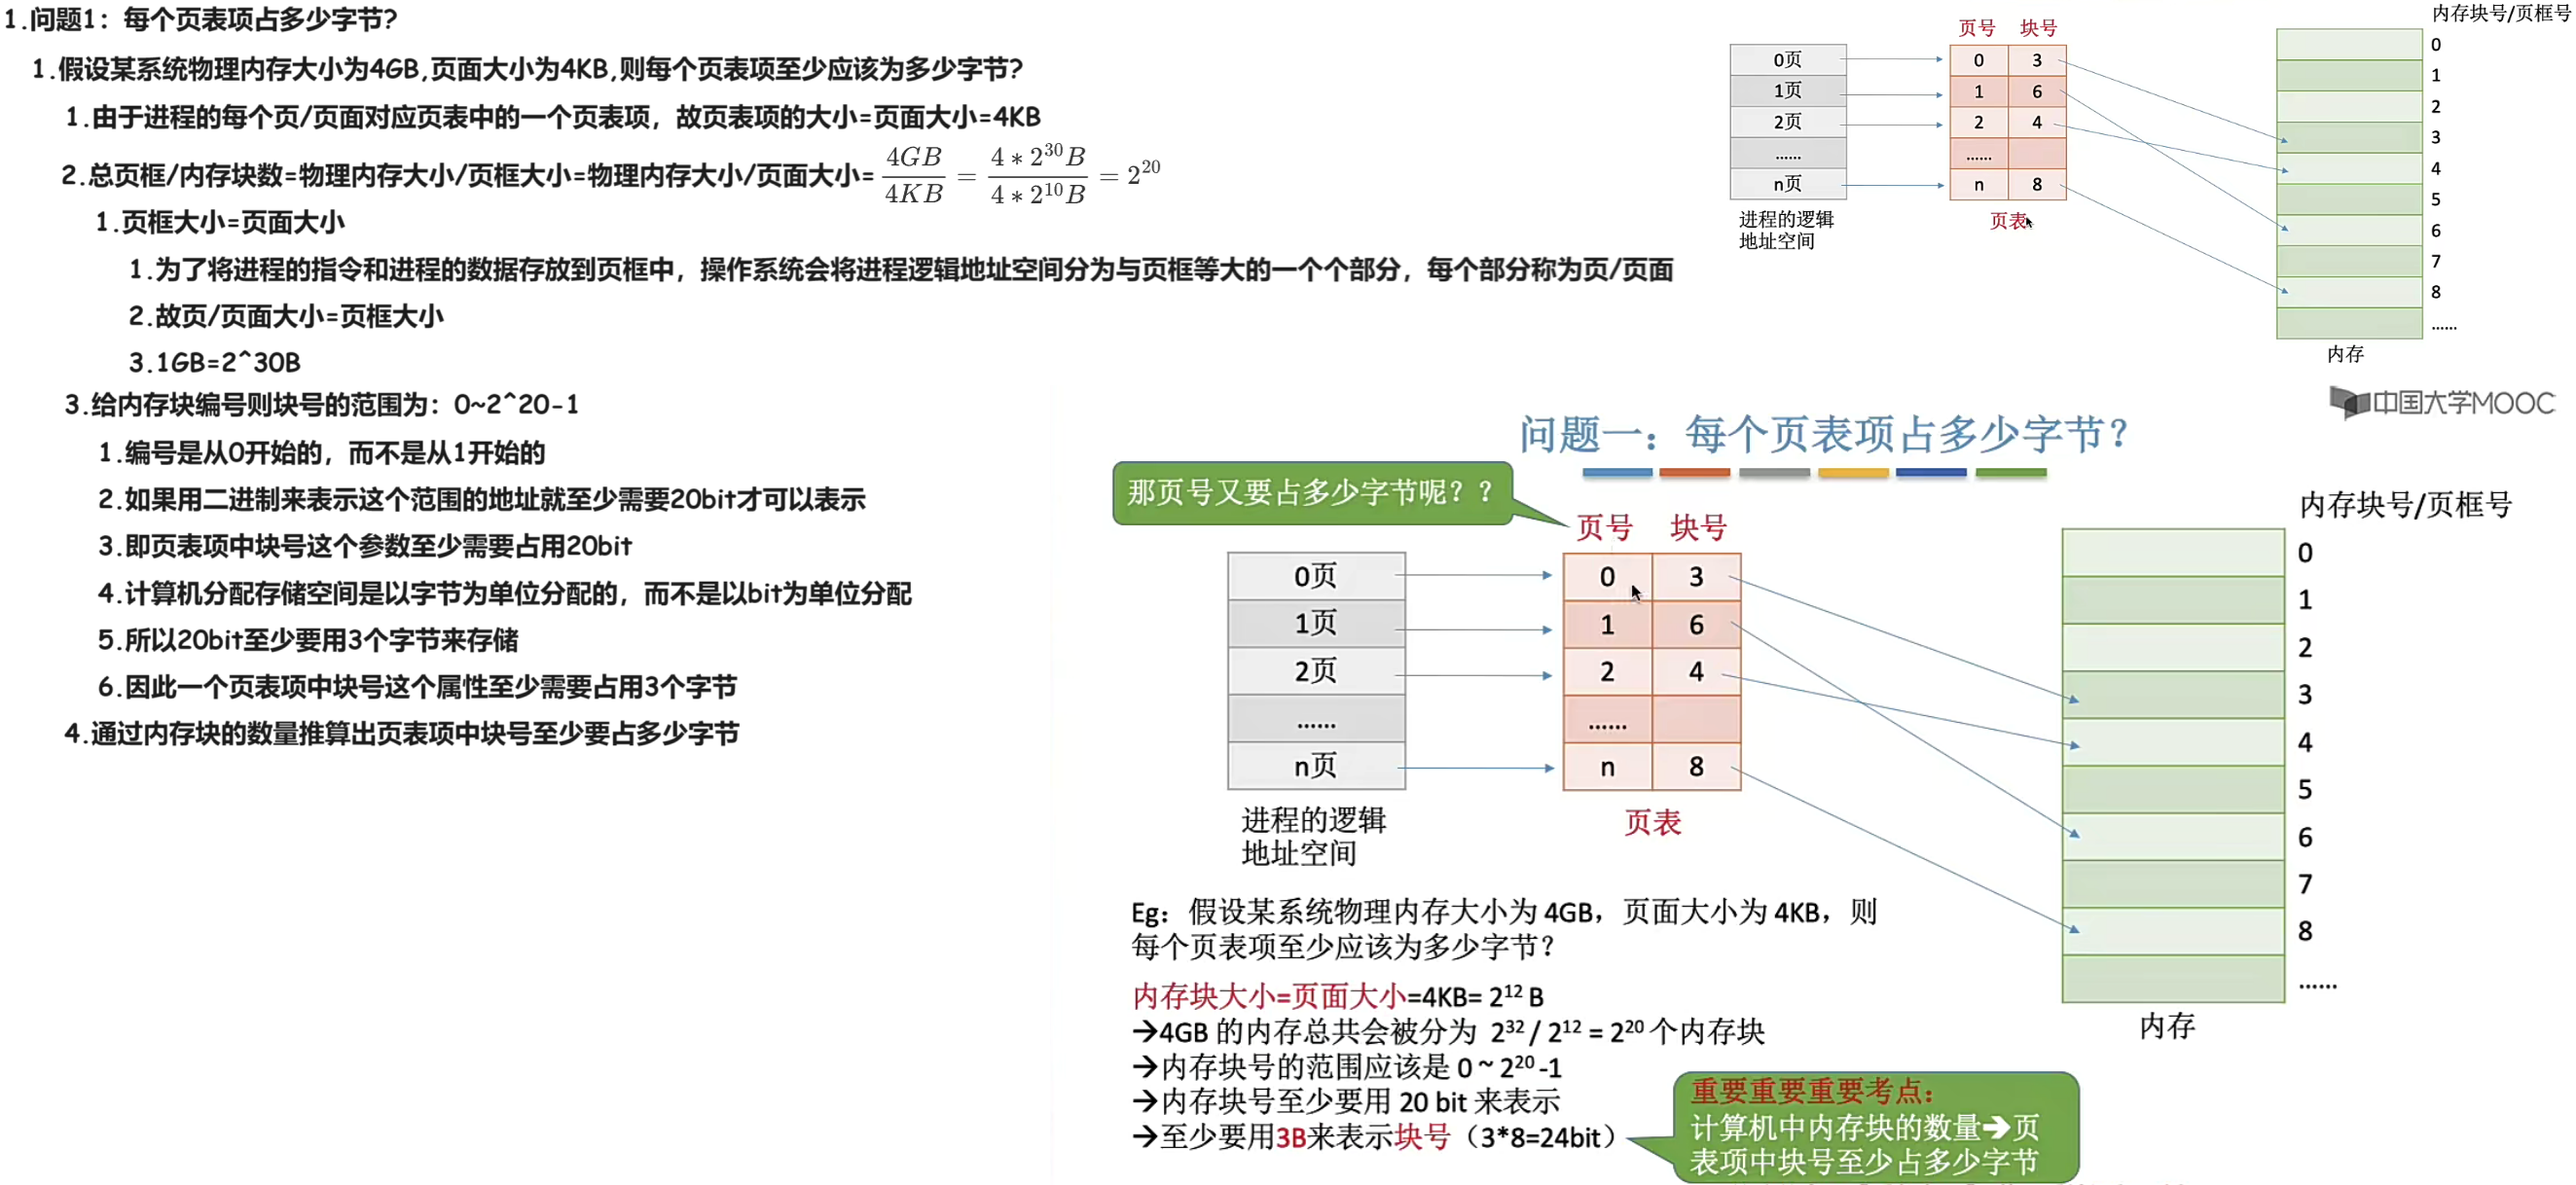
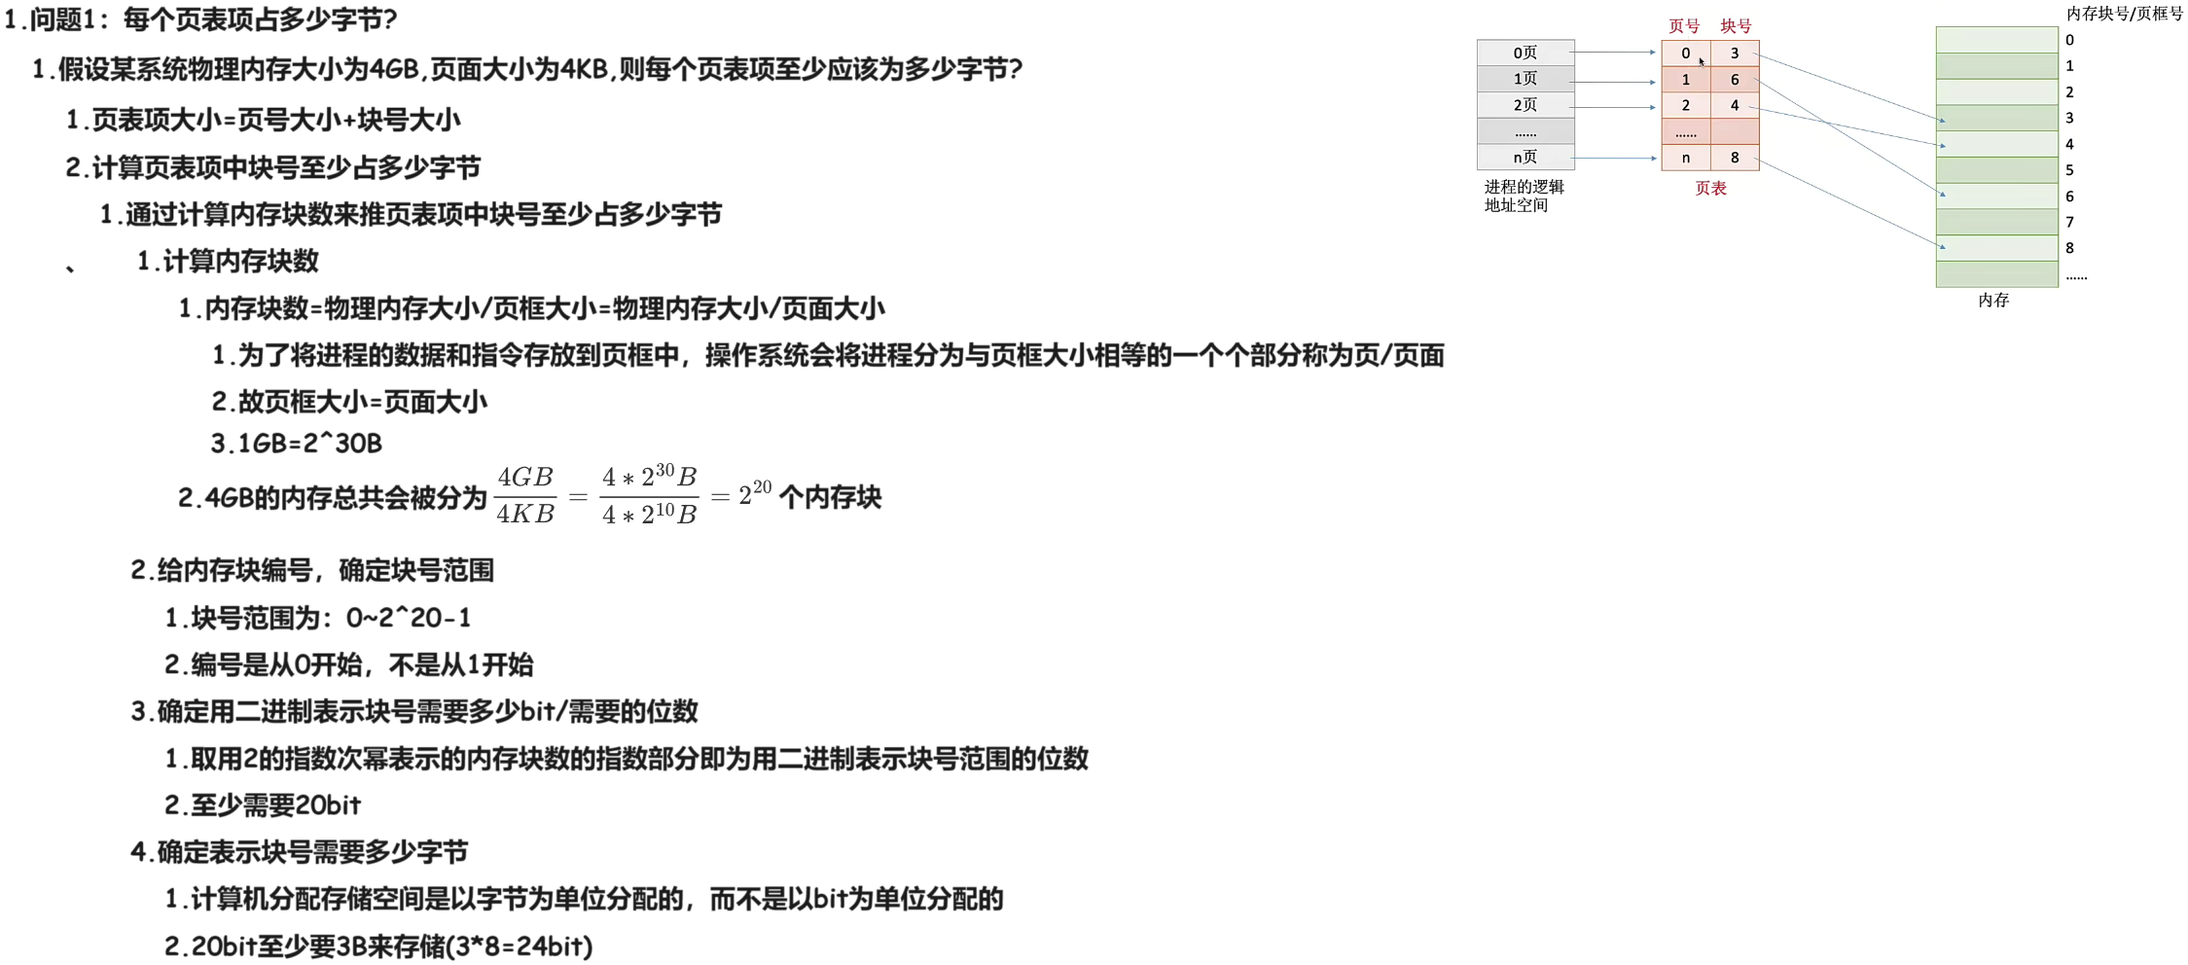
240108

diff --git a/04 每日一题/01 820/05 23/01 操作系统部分/03 计算题/03 请求分页存储管理 240108/02 知识点/01 基本分页存储管理/01 Doc.md b/04 每日一题/01 820/05 23/01 操作系统部分/03 计算题/03 请求分页存储管理 240108/02 知识点/01 基本分页存储管理/01 Doc.md
@@ -16,4 +16,4 @@
 
 ## 03 问题1:每个页表项占多少字节
 
-<img src="https://cvp.oss-cn-shanghai.aliyuncs.com/picgo/202401082129333.png" alt="image-20240108212923089" style="zoom:50%;" />
+<img src="https://cvp.oss-cn-shanghai.aliyuncs.com/picgo/202401082214023.png" alt="image-20240108221404871" style="zoom:50%;" />
